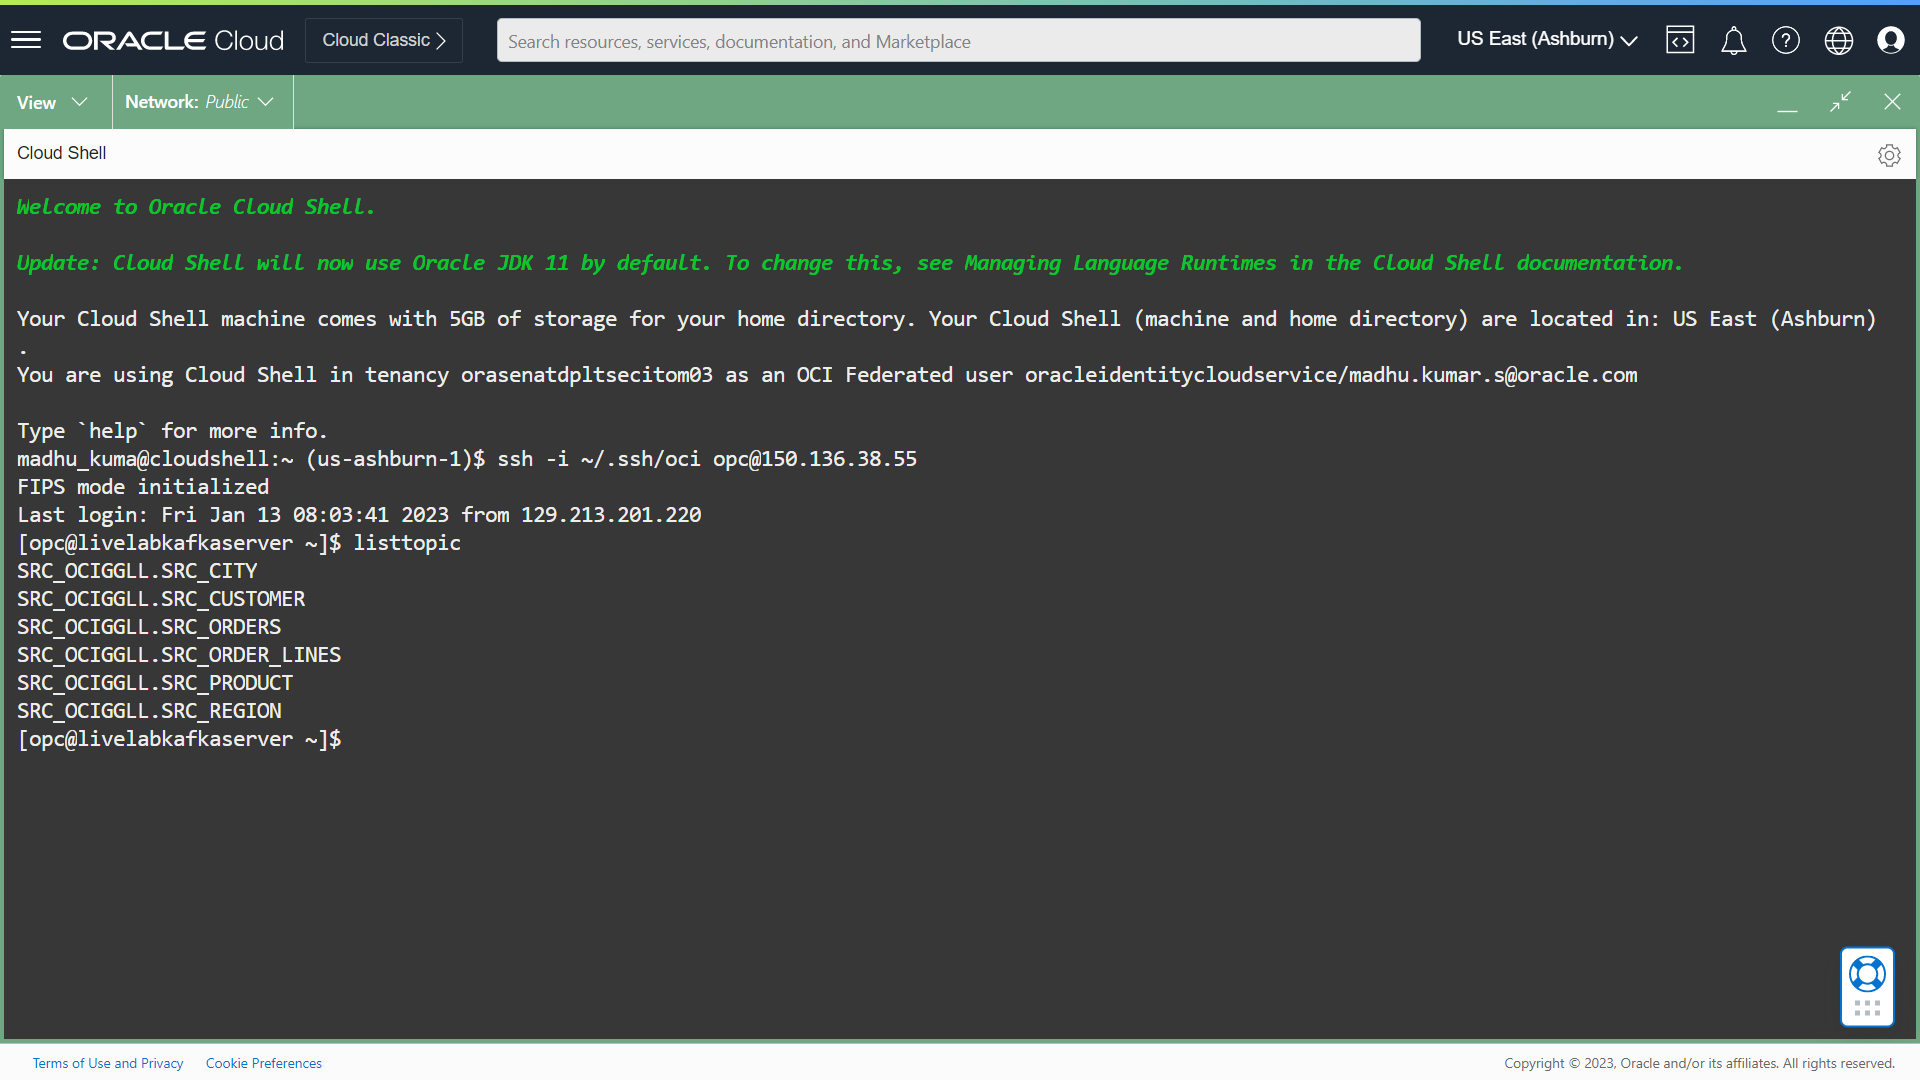
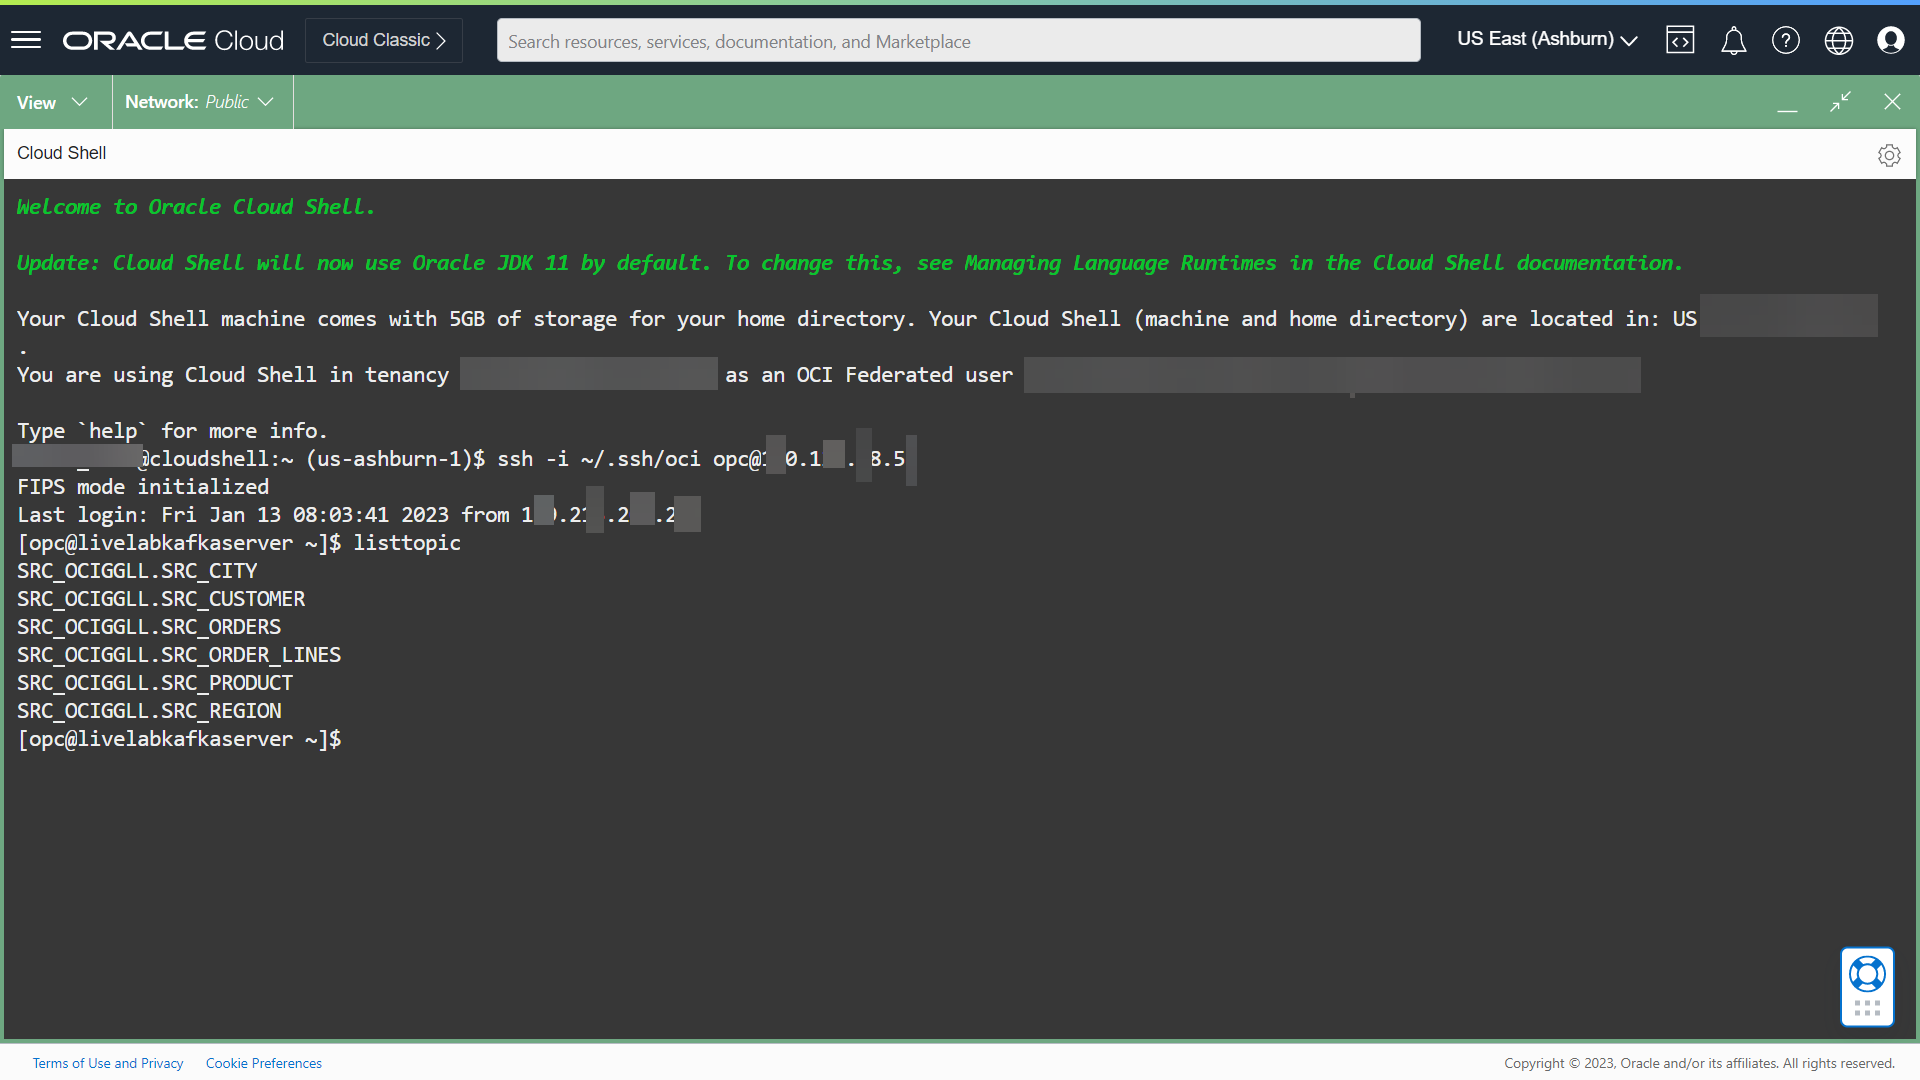
IP masked

diff --git a/load/load.md b/load/load.md
@@ -128,7 +128,7 @@ This lab assumes that you completed all preceding labs, and your deployment is i
     ![OCI Cloud shell](images/cloud-shell-page-home.png " ")
 
 2. Copy the ssh connecting string from Cloud Shell terraform output. and paste it into a Cloud Shell.
-
+    ![OCI Cloud shell](images/cloud-shell-ssh.png " ")
     ![OCI ssh clogin](images/cloud-shell-kafka-server-login.png " ") 
     
 3. Execute ***listtopic*** to list all the topics.
